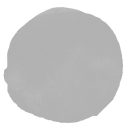
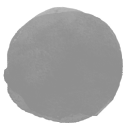
feat: add route drawing with great circle paths to FlightMap
- Integrated `PathLayer` to render routes between selected airports.
- Enabled memoized route calculations using `buildPath` for great circle paths.

diff --git a/src/components/FlightMap.tsx b/src/components/FlightMap.tsx
@@ -1,11 +1,12 @@
-import { useState, useEffect } from 'react'
+import { useState, useEffect, useMemo } from 'react'
 import DeckGL from '@deck.gl/react'
-import { IconLayer, TextLayer } from '@deck.gl/layers'
+import { IconLayer, PathLayer, TextLayer } from '@deck.gl/layers'
 import { Map as MapGL } from 'react-map-gl/maplibre'
 import 'maplibre-gl/dist/maplibre-gl.css'
 import { MAP_STYLES } from '../../constants/mapStyles.ts'
 import { loadFeaturedAirports, type FeaturedAirport } from '../utils/featureAirports.ts'
 import { easeCubic } from '../utils/easings'
+import { buildPath } from '../utils/greatCirclePath.ts'
 
 const INITIAL_VIEW_STATE = {
   longitude: 5,
@@ -32,12 +33,32 @@ export default function FlightMap() {
     loadFeaturedAirports().then(setAirports)
   }, [])
 
+  const routePaths = useMemo(() => {
+    const selected = airports.filter(a => selectedAirportIds.has(a.iata))
+    const paths: [number, number][][] = []
+    for (let i = 0; i < selected.length; i++) {
+      for (let j = i + 1; j < selected.length; j++) {
+        const result = buildPath(selected[i].lon, selected[i].lat, selected[j].lon, selected[j].lat)
+        if (result) paths.push(result.line.geometry.coordinates as [number, number][])
+      }
+    }
+    return paths
+  }, [airports, selectedAirportIds])
+
   const layers = [
+    new PathLayer({
+      id: 'routes',
+      data: routePaths,
+      getPath: d => d,
+      getColor: [39, 114, 29, 135],
+      getWidth: 4,
+      widthUnits: 'pixels',
+    }),
     new IconLayer<FeaturedAirport>({
       id: 'airports-icon',
       data: airports,
       getPosition: d => [d.lon, d.lat],
-      getIcon: () => ({ url: '/dot2.png', width: 128, height: 128, mask: true }),
+      getIcon: () => ({ url: '/dot.png', width: 128, height: 128, mask: true }),
       getSize: d => d.iata === hoveredAirportId ? 32 : 24,
       getAngle: d => d.rotation,
       getColor: d => selectedAirportIds.has(d.iata) ? AIRPORT_ICON_COLORS.GREEN : AIRPORT_ICON_COLORS.BLACK,
